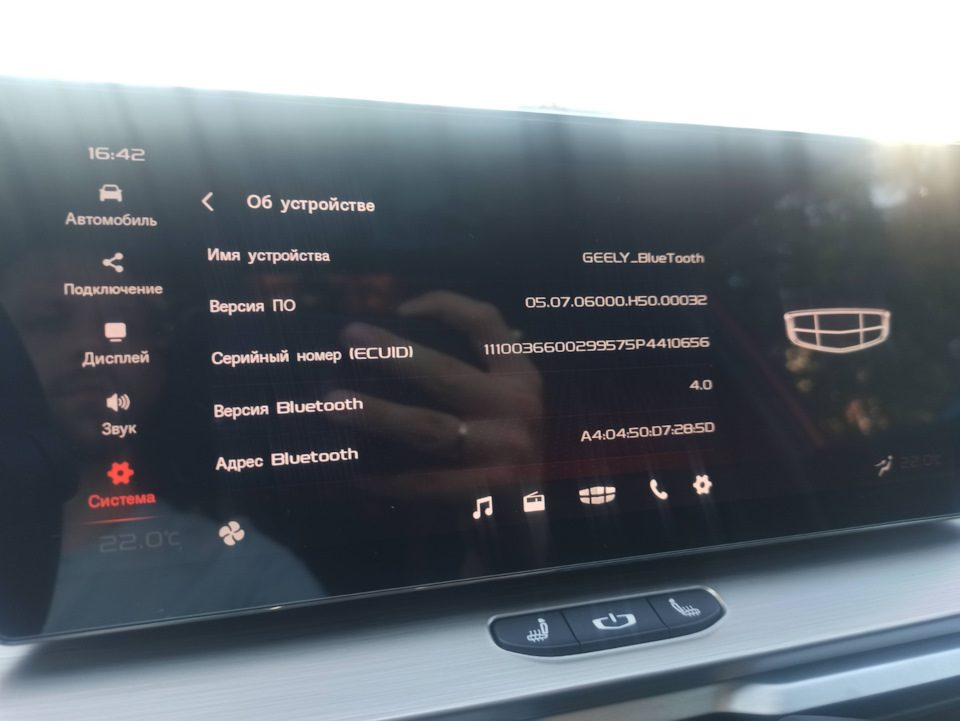
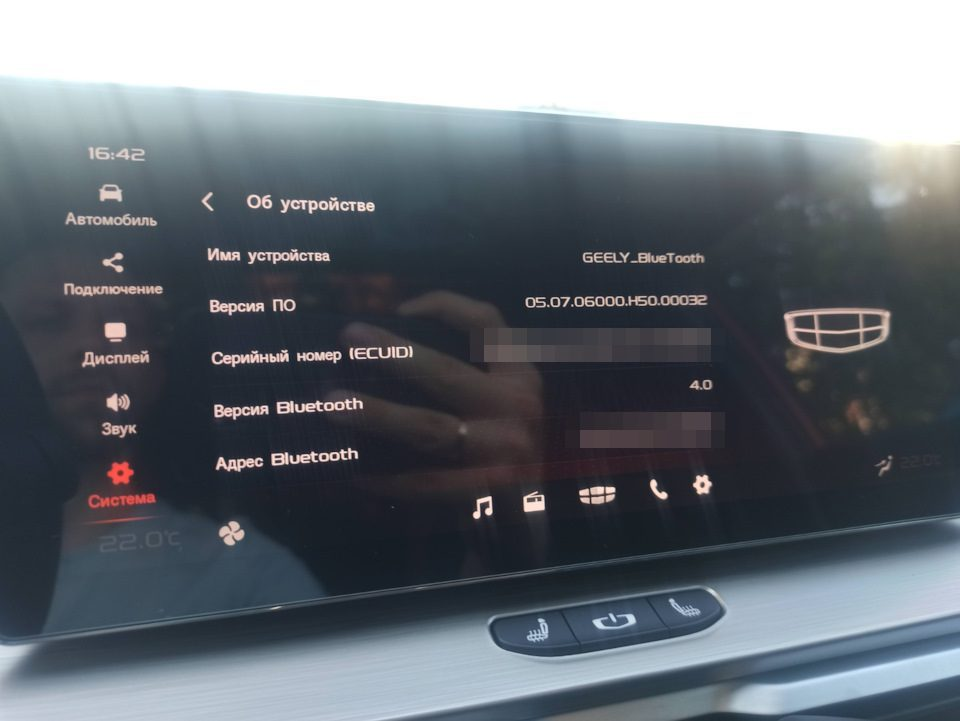
Проблемы: фото, прошивка климата 9117, микрофон, вентилятор печки, регулировка фар; страница значков приборной панели; замазаны серийники

Changed region(s): [[0.5, 0.4577, 0.75, 0.5187], [0.5938, 0.5492, 0.75, 0.6408]]

diff --git a/pages/problems.md b/pages/problems.md
@@ -2,7 +2,7 @@
 title: "Проблемы и решения Geely Coolray / Belgee X50"
 layout: page
 permalink: /pages/problems/
-description: Частые проблемы при эксплуатации и пошаговые решения простым языком — что проверить и что сделать прямо сейчас.
+description: "Частые проблемы Geely Coolray / Belgee X50 и решения: жарит климат (прошивка 9117), плохо слышно по громкой связи, стук под капотом, регулировка фар, увод в сторону, стеклоподъёмники и другие."
 image: /assets/logo.png
 ---
 
@@ -44,7 +44,19 @@ image: /assets/logo.png
 
 
 ## «Жарит» климат
-**Решение:** у дилера обновить прошивку блока климата до **версии 9117**. Еще вариант заказать и поставить альтернативный переходник для климата Geely Tugella/Coolray. Искать тут: [Drive2]( https://www.drive2.ru/l/661962350965829110/)
+**Симптом:** в холодное время в салоне слишком жарко при разных настройках температуры.
+
+**Решение 1 — прошивка у дилера.** Обновить ПО блока климат-контроля до **версии 9117**. Это сервисная кампания Geely **SC-2024-001** для Coolray (SX11); в заказ-наряде работа называется «SX88600011 Обновление программного обеспечения модуля управления климат-контролем SX11».
+
+- Кампания типа «C»: её делают **только по жалобе клиента** — так и скажите мастеру-приёмщику.
+- Только для машин с **автоматическим климат-контролем**.
+- Если в блоке уже стоит ПО **2117**, обновлять не нужно — логика там уже исправлена.
+
+![Сервисная кампания Geely SC-2024-001: обновление ПО климат-контроля Coolray SX11 до версии 9117](/assets/problems/climate-campaign.jpg){: width="591" height="625" loading="lazy"}
+
+**Решение 2 — альтернативный тройник.** Заменить родной тройник системы климата на альтернативный (переходник для климата Geely Tugella/Coolray). Слева — родной, справа — установленный альтернативный (белый). Где искать и как ставить — [на Drive2](https://www.drive2.ru/l/661962350965829110/).
+
+![Тройник климата Geely Coolray: родной и установленный альтернативный](/assets/problems/climate-tee.jpg){: width="1100" height="412" loading="lazy"}
 
 ## Стук в подвеске
 
@@ -115,6 +127,61 @@ image: /assets/logo.png
 В районе бачков омывателя и охлаждающей жидкости патрубок соприкасается с пластиковой крышкой, из-за чего слышен стук в салоне справа.
 Решение: проложить участок поролоном или проклеить антискрип-лентой/зафиксировать — шум исчезает.
 
+![Где стучит патрубок под капотом Geely Coolray — место обведено](/assets/problems/hood-knock-overview.jpg){: width="1100" height="335" loading="lazy"}
+
+![Патрубок, который касается пластиковой крышки — крупно](/assets/problems/hood-knock-closeup.jpg){: width="776" height="580" loading="lazy"}
+
+
+
+## Плохо слышно собеседника по громкой связи
+**Симптом:** вы собеседника слышите хорошо, а он вас — плохо и тихо.
+
+**Причина:** низкая чувствительность штатного микрофона в потолочном плафоне (плата FL-025-VA0).
+
+**Решение:**
+
+1. Снимите верхний плафон и достаньте плату микрофона.
+2. Найдите резистор **R3** — он стоит в цепи обратной связи усилителя и снижает чувствительность.
+3. Закоротите R3 перемычкой или замените на резистор **0 Ом** того же размера.
+4. Соберите в обратном порядке.
+
+**Результат:** громкость микрофона вырастает примерно в 2–2,5 раза — собеседник хорошо слышит даже с заднего сиденья.
+
+![Плата штатного микрофона Geely Coolray FL-025-VA0, обе стороны](/assets/problems/mic-board.jpg){: width="1100" height="407" loading="lazy"}
+
+![Схема платы микрофона: резистор R3 в цепи обратной связи](/assets/problems/mic-schematic.jpg){: width="720" height="407" loading="lazy"}
+
+
+
+## Шум или вибрация вентилятора печки
+Если вентилятор отопителя гудит или вибрирует, снимите его и проверьте:
+
+- **уплотнитель-демпфер** на ушке крепления вентилятора (слева на фото);
+- **точки крепления** вентилятора к корпусу отопителя (справа на фото).
+
+![Вентилятор печки Geely Coolray: уплотнитель на креплении и точки крепления](/assets/problems/heater-fan.jpg){: width="906" height="600" loading="lazy"}
+
+
+
+## Как отрегулировать фары (LED)
+Регулировочные винты находятся сверху и сзади на корпусе фары (под капотом). Для каждого режима два винта:
+
+| Винт | Что регулирует |
+| --- | --- |
+| Ближний — верх/низ | высота луча ближнего света |
+| Ближний — право/лево | направление ближнего света |
+| Дальний — верх/низ | высота луча дальнего света |
+| Дальний — право/лево | направление дальнего света |
+
+Регулируйте на ровной площадке перед стеной или экраном, с водителем в машине и полным баком.
+
+![Винты регулировки LED-фары Geely Coolray: ближний и дальний свет](/assets/problems/headlight-adjust.jpg){: width="1100" height="536" loading="lazy"}
+
+
+
+## Что означают значки на приборной панели
+Расшифровка всех 28 контрольных ламп и индикаторов — на отдельной странице [Значки на приборной панели](/pages/warning-lights/).
+
 
 
 ------
@@ -147,7 +214,7 @@ image: /assets/logo.png
       "name": "«Жарит» климат",
       "acceptedAnswer": {
         "@type": "Answer",
-        "text": "Обновите у дилера прошивку блока климата до версии 9117. Альтернатива — поставить переходник для климата Geely Tugella/Coolray."
+        "text": "Обновите у дилера ПО блока климат-контроля до версии 9117 — сервисная кампания Geely SC-2024-001, делается по жалобе клиента, только для автоматического климат-контроля. Если стоит ПО 2117, обновлять не нужно. Альтернатива — поставить альтернативный тройник (переходник для климата Geely Tugella/Coolray)."
       }
     },
     {
@@ -172,6 +239,22 @@ image: /assets/logo.png
       "acceptedAnswer": {
         "@type": "Answer",
         "text": "Смазывайте подвижные части и резинки каждые ~6 месяцев или 5 000 км. Для резинок используйте силиконовую смазку."
+      }
+    },
+    {
+      "@type": "Question",
+      "name": "Плохо слышно собеседника по громкой связи",
+      "acceptedAnswer": {
+        "@type": "Answer",
+        "text": "Низкая чувствительность штатного микрофона в потолочном плафоне. Снимите плафон, на плате микрофона FL-025-VA0 закоротите резистор R3 или замените его на 0 Ом — громкость вырастет примерно в 2–2,5 раза."
+      }
+    },
+    {
+      "@type": "Question",
+      "name": "Как отрегулировать фары (LED)",
+      "acceptedAnswer": {
+        "@type": "Answer",
+        "text": "На корпусе фары под капотом четыре регулировочных винта: ближний свет верх/низ и право/лево, дальний свет верх/низ и право/лево."
       }
     },
     {

diff --git a/pages/warning-lights.md b/pages/warning-lights.md
@@ -1,0 +1,87 @@
+---
+title: "Значки на приборной панели Geely Coolray / Belgee X50: что означают"
+layout: page
+permalink: /pages/warning-lights/
+parent: /pages/problems/
+crumb: "Значки на приборной панели"
+description: "Расшифровка контрольных ламп и индикаторов на приборной панели Geely Coolray / Belgee X50: цвет, значение, что делать — ABS, EPB, AVH, ESP, TPMS, давление масла, перегрев."
+image: /assets/problems/warning-lights.jpg
+---
+
+# Значки на приборной панели Geely Coolray / Belgee X50
+
+Что означает каждая контрольная лампа и индикатор на приборной панели — по таблице из руководства по эксплуатации. Значки со звёздочкой (\*) есть не во всех комплектациях.
+
+**Как понимать цвет:**
+
+- 🔴 **Красный** — неисправность или опасность: остановитесь и разберитесь, прежде чем ехать дальше.
+- 🟡 **Жёлтый** — предупреждение: система работает неправильно или отключена, проверьте при первой возможности.
+- 🟢 **Зелёный / 🔵 синий** — просто показывает, что функция включена.
+
+<nav class="toc" id="оглавление" markdown="1">
+## Оглавление
+{:.no_toc .toc-title #toc-title}
+
+* TOC
+{:toc}
+</nav>
+
+## 🔴 Красные лампы
+
+| Лампа | Что означает |
+| --- | --- |
+| (!) в круге | неисправность тормозной системы |
+| (P) в круге | включён стояночный тормоз (бывает и зелёным) |
+| AUTO HOLD | неисправность системы AVH (удержание на месте) |
+| человечек с подушкой | неисправность подушек безопасности |
+| человечек с ремнём | не пристёгнут ремень безопасности |
+| термометр в жидкости | перегрев двигателя |
+| аккумулятор | неисправность системы зарядки аккумулятора |
+
+_[К оглавлению](#оглавление)_
+
+## 🟡 Жёлтые лампы
+
+| Лампа | Что означает |
+| --- | --- |
+| ABS в круге | неисправность антиблокировочной системы ABS |
+| EBD | неисправность системы распределения тормозных усилий EBD |
+| P в треугольнике | неисправность электронного стояночного тормоза EPB\* |
+| двигатель (контур мотора) | неисправность системы снижения токсичности выбросов («Check Engine») |
+| SVS | неисправность двигателя |
+| машина с волнистыми следами | контрольная лампа системы стабилизации ESC |
+| машина со следами и OFF | система ESP отключена |
+| бензоколонка | низкий уровень топлива |
+| маслёнка | низкое давление моторного масла |
+| EPS | неисправность электроусилителя руля EPS\* |
+| (!) в шине | давление в шинах TPMS\* |
+| фара со штрихами справа | включены задние противотуманные фонари |
+
+_[К оглавлению](#оглавление)_
+
+## 🟢 Зелёные и синие индикаторы
+
+| Индикатор | Что означает |
+| --- | --- |
+| стрелки влево / вправо | указатели поворота |
+| фара с прямыми лучами (синий) | включён дальний свет |
+| фара с наклонными лучами | включён ближний свет |
+| фара со штрихами слева | включены передние противотуманные фары |
+| два фонарика | включены габаритные огни |
+| фара с точками | включены дневные ходовые огни |
+| AUTO HOLD | система AVH включена |
+| спидометр со стрелкой | включён круиз-контроль\* |
+
+_[К оглавлению](#оглавление)_
+
+## Таблица из руководства
+
+Полная таблица со значками из руководства по эксплуатации:
+
+![Контрольные лампы и индикаторы приборной панели Geely Coolray SX11 — таблица из руководства](/assets/problems/warning-lights.jpg){: width="1237" height="688" loading="lazy"}
+
+_[К оглавлению](#оглавление)_
+
+------
+
+[Проблемы и решения](/pages/problems/) · [Вернуться на главную](/)

diff --git a/index.md b/index.md
@@ -34,6 +34,7 @@ image: /assets/logo.png
   - [Масло и жидкости](/pages/oil/) — масло, антифриз, тормозная жидкость: объёмы и интервалы
   - [Коды краски](/pages/paint-codes/) — таблица цветов ЛКП
 - [Проблемы и решения](/pages/problems/) — типовые неисправности и что делать
+  - [Значки на приборной панели](/pages/warning-lights/) — что означает каждая лампа
 
 
 
